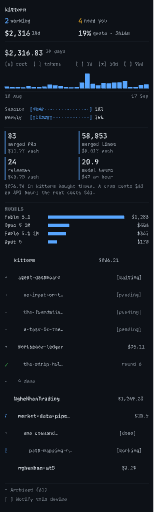
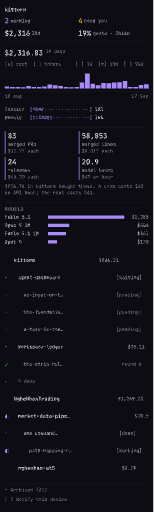
Re-tint every frame in Flux
The human picked Flux. Every frame draws from the document variables, so
the re-tint was one edit: violet accent, emerald success, amber warning,
coral danger, on a ground warmed off pure black.

Both themes are measured. Every text pair clears 4.5 and every state
pair clears 3.0, on the ground and on the surface. One value moved after
the first measurement: `faint` on `surface` in light read 4.37, so it
darkened from #6f6f88 to #68687f and reads 4.86.

The three comparison strips keep their own literal colours so the
comparison still reads, and the frame says which one was picked.

The foundation grew with the palette note, so the canvas was re-spaced.
Zero overlaps across all six frames.

Claude-Session: https://claude.ai/code/session_012ztzwyRLLwgnU2inMa4JWu

diff --git a/docs/goals/agent-dashboard/corpus/palette.md b/docs/goals/agent-dashboard/corpus/palette.md
@@ -68,9 +68,12 @@ Signal the cyan accent sits 46° from the success green; in Phosphor the
 accent *is* green and success has to move to cyan, which inverts a
 mapping every reader already knows.
 
-## The recommendation
+## The decision
 
-**Flux**, under rule C.
+**Flux, under rule C.** The human picked it on 2026-09-17, and every
+frame in `dashboard.pen` is re-tinted: the document variables now hold
+Flux, and each frame draws from them, so the re-tint was one edit rather
+than six.
 
 - Violet is the widest hue any accent can take from green, amber and
   red at once, so it never competes with a state.
@@ -79,9 +82,35 @@ mapping every reader already knows.
 - Its ground is warmed a touch off pure black, `#0c0c12`, so the violet
   does not sit on a dead ground.
 
-**Phosphor** is the boldest and the most fun, and it is the one to take
-if the human wants the page to look like a terminal from across the
-room. The cost is real and should be stated: success stops being green.
+**Phosphor** was the boldest and is not taken. Its cost was real:
+success stops being green.
+
+## Flux, as shipped
+
+Two themes, both measured. Every text pair clears 4.5 and every state
+pair clears 3.0, on the ground and on the surface.
+
+| Token | Dark | Light |
+|---|---|---|
+| `bg` | `#0c0c12` | `#fbfbfe` |
+| `surface` | `#14141d` | `#f2f2f8` |
+| `border` | `#23232f` | `#dcdce8` |
+| `text` | `#eaeaf2` | `#17171f` |
+| `muted` | `#b0b0c0` | `#4d4d61` |
+| `faint` | `#81819a` | `#68687f` |
+| `accent` | `#a78bfa` | `#6d3ee8` |
+| `success` | `#34d399` | `#047857` |
+| `warning` | `#fbbf24` | `#a35a00` |
+| `danger` | `#f87171` | `#c81e34` |
+
+One value moved after the first measurement: `faint` on `surface` in
+light read 4.37, under the 4.5 a text pair needs, so it darkened from
+`#6f6f88` to `#68687f` and reads 4.86.
+
+Under rule C the product keeps deriving `bg`, `surface`, `border` and
+the three greys from the terminal's theme. The table's ground values are
+what the design file draws and what the page falls back to when no
+terminal theme is set.
 
 ## The spinner glyph
 
